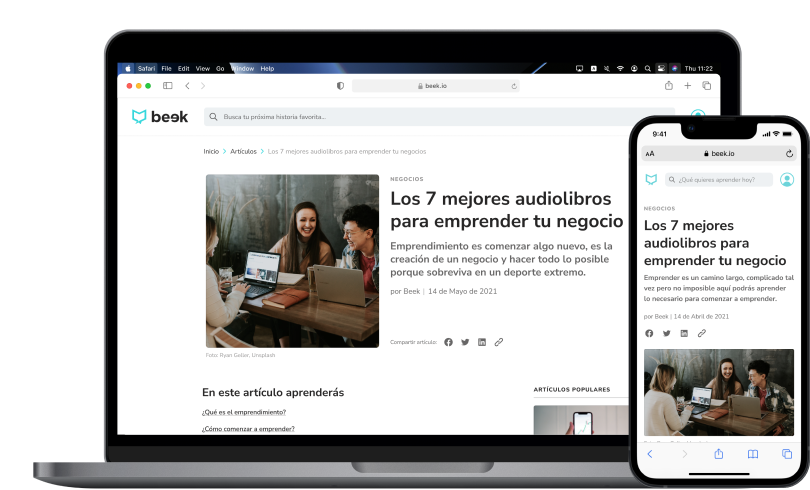
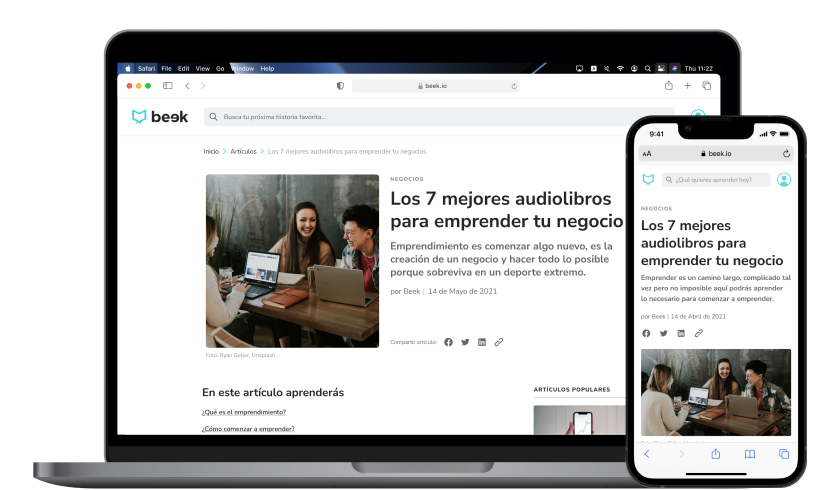
13.1.4

diff --git a/styles.css b/styles.css
@@ -413,7 +413,7 @@ caption {
 .illustration1 {
     position: relative;
     right: 0;
-    width: 120%;
+    width: 100%;
     flex: none;
     align-self: center;
     margin: 0px 0px;
@@ -1535,7 +1535,7 @@ screen and (max-width: 414px) {
     .illustration1 {
         position: relative;
         right: 0;
-        width: 120%;
+        width: 100%;
         flex: none;
         align-self: center;
         margin: 0px 0px;

diff --git a/Portfolio_landing.html b/Portfolio_landing.html
@@ -164,7 +164,7 @@
                 </div>
 
                 <img class="illustration1"
-                    src="Article pages@3x.png"
+                    src="Project image@3x.png"
                     rel="Party Box">
             </a>
    <!--Web Player-->
